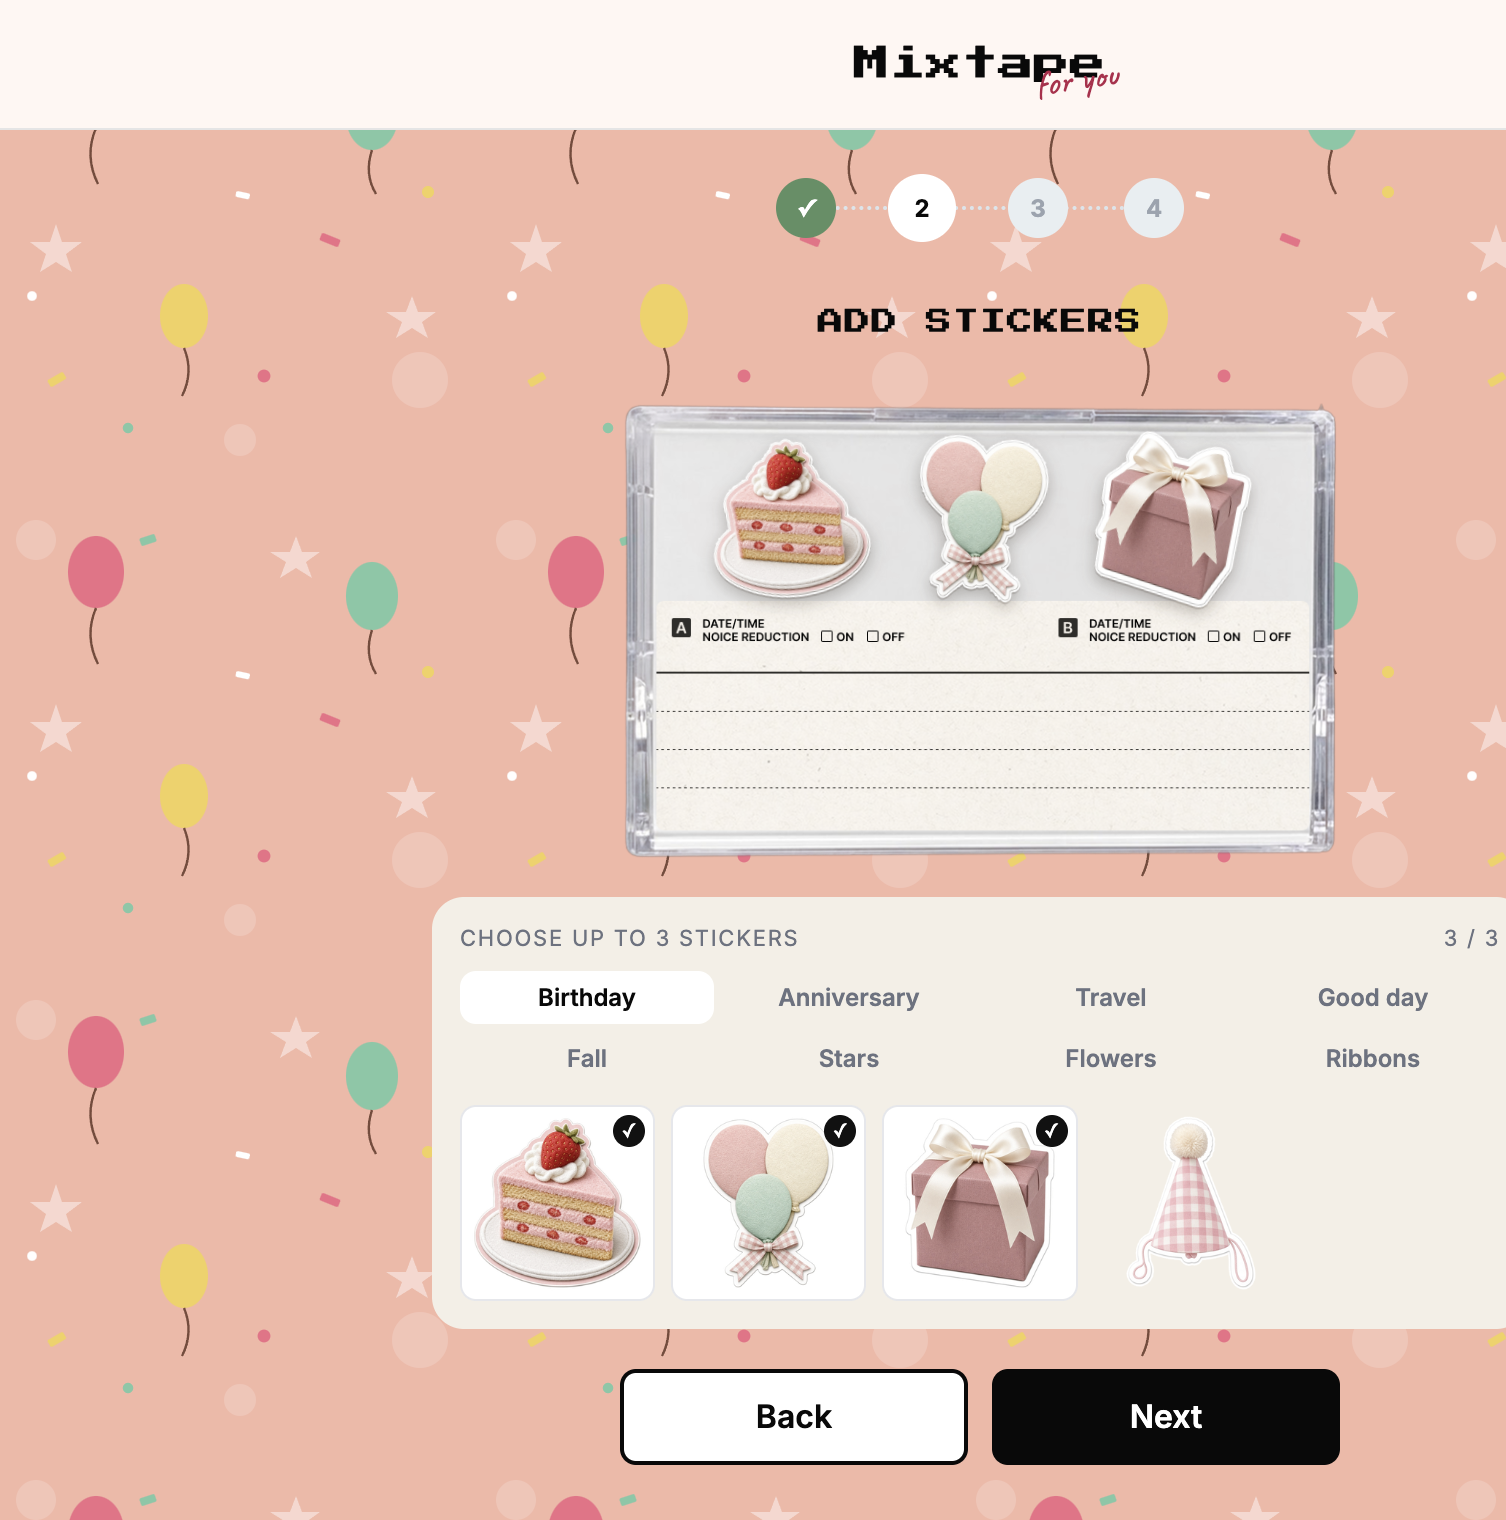
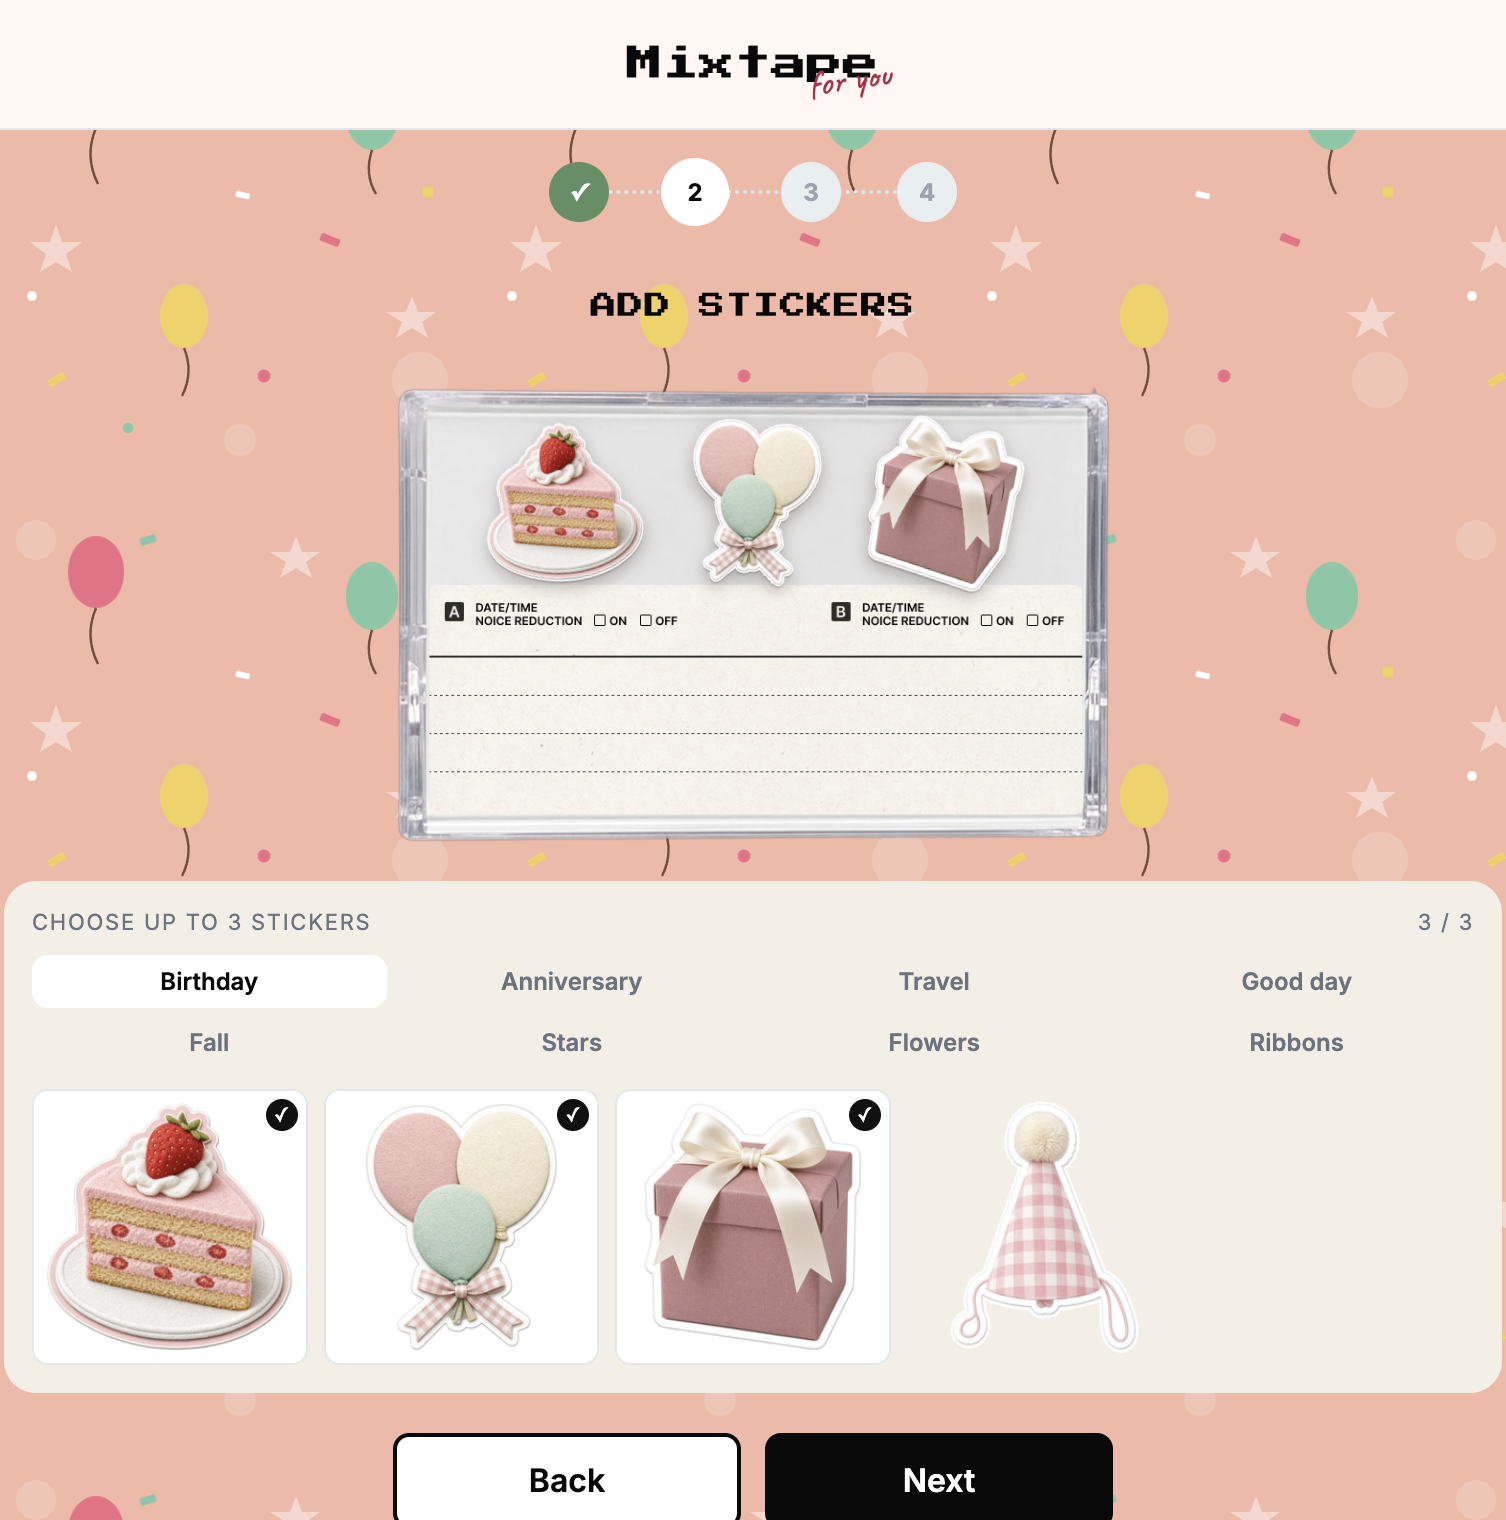
Keep long notes on a custom scrollbar and restack the README screenshots.

diff --git a/src/components/NoteCard.tsx b/src/components/NoteCard.tsx
@@ -1,3 +1,5 @@
+import { useEffect, useRef, useState, type PointerEvent } from "react";
+
 type NoteCardProps = {
   value: string;
   onChange?: (value: string) => void;
@@ -21,24 +23,98 @@ export function NoteCard({
   className = "",
   maxLength = 280,
 }: NoteCardProps) {
+  const scrollerRef = useRef<HTMLDivElement | null>(null);
+  const railRef = useRef<HTMLDivElement | null>(null);
+  const [scrollable, setScrollable] = useState(false);
+  const [thumb, setThumb] = useState({ top: 0, height: 28 });
+
+  useEffect(() => {
+    const scroller = scrollerRef.current;
+    if (!scroller) return;
+
+    function update() {
+      const node = scrollerRef.current;
+      const rail = railRef.current;
+      if (!node) return;
+      const canScroll = node.scrollHeight > node.clientHeight + 2;
+      const railHeight = rail?.clientHeight || node.clientHeight;
+      const thumbHeight = canScroll ? Math.max(22, (node.clientHeight / node.scrollHeight) * railHeight) : 28;
+      const maxTop = Math.max(0, railHeight - thumbHeight);
+      const range = node.scrollHeight - node.clientHeight;
+      const top = range > 0 ? (node.scrollTop / range) * maxTop : 0;
+      setScrollable(canScroll);
+      setThumb({ top, height: thumbHeight });
+    }
+
+    update();
+    scroller.addEventListener("scroll", update, { passive: true });
+    const observer = new ResizeObserver(update);
+    observer.observe(scroller);
+    const later = window.setTimeout(update, 750);
+    return () => {
+      scroller.removeEventListener("scroll", update);
+      observer.disconnect();
+      window.clearTimeout(later);
+    };
+  }, [value, readOnly]);
+
+  function scrollFromPointer(clientY: number) {
+    const node = scrollerRef.current;
+    const rail = railRef.current;
+    if (!node || !rail) return;
+    const rect = rail.getBoundingClientRect();
+    const range = node.scrollHeight - node.clientHeight;
+    if (range <= 0) return;
+    const y = Math.min(Math.max(0, clientY - rect.top), rect.height);
+    node.scrollTop = (y / rect.height) * range;
+  }
+
+  function onRailPointerDown(event: PointerEvent<HTMLDivElement>) {
+    event.preventDefault();
+    event.currentTarget.setPointerCapture(event.pointerId);
+    scrollFromPointer(event.clientY);
+  }
+
   return (
-    <div className={`note-card ${className}`}>
+    <div className={`note-card ${className}${scrollable ? " is-scrollable" : ""}`}>
       <img src="/assets/note-paper.png" alt="" aria-hidden="true" className="note-paper" draggable={false} />
       <div className="note-margin" />
       <div className="note-lines" />
-      {readOnly ? (
-        <p className="note-text" tabIndex={0} aria-label="Mixtape note">
-          {sentencesForDisplay(value)}
-        </p>
-      ) : (
-        <textarea
-          className="note-text note-input"
-          value={value}
-          maxLength={maxLength}
-          placeholder="Write something sweet…"
-          aria-label="Mixtape note"
-          onChange={(event) => onChange?.(event.target.value)}
-        />
+      <div className="note-scroll-clip">
+        <div ref={scrollerRef} className="note-scroll">
+          {readOnly ? (
+            <p className="note-text" tabIndex={0} aria-label="Mixtape note">
+              {sentencesForDisplay(value)}
+            </p>
+          ) : (
+            <textarea
+              className="note-text note-input"
+              value={value}
+              maxLength={maxLength}
+              placeholder="Write something sweet…"
+              aria-label="Mixtape note"
+              onChange={(event) => onChange?.(event.target.value)}
+            />
+          )}
+        </div>
+      </div>
+      {scrollable && (
+        <div
+          ref={railRef}
+          className="note-scrollbar"
+          role="scrollbar"
+          aria-label="Note scroll"
+          aria-valuemin={0}
+          aria-valuemax={100}
+          aria-valuenow={Math.round(thumb.top)}
+          aria-orientation="vertical"
+          onPointerDown={onRailPointerDown}
+          onPointerMove={(event) => {
+            if (event.currentTarget.hasPointerCapture(event.pointerId)) scrollFromPointer(event.clientY);
+          }}
+        >
+          <span className="note-scrollbar-thumb" style={{ height: thumb.height, top: thumb.top }} />
+        </div>
       )}
       {!readOnly && (
         <span className="note-count">

diff --git a/src/index.css b/src/index.css
@@ -245,12 +245,38 @@ h2 {
   display: none;
 }
 
-.note-text {
+.note-scroll-clip {
   position: absolute;
   left: 48px;
   top: 33px;
   width: calc(100% - 64px);
   height: 127px;
+  overflow: hidden;
+}
+
+.note-scroll {
+  width: calc(100% + 28px);
+  height: 100%;
+  padding-right: 28px;
+  box-sizing: border-box;
+  overflow-x: hidden;
+  overflow-y: auto;
+  overscroll-behavior: contain;
+  scrollbar-width: none;
+  -ms-overflow-style: none;
+  -webkit-overflow-scrolling: touch;
+  touch-action: pan-y;
+}
+.note-scroll::-webkit-scrollbar {
+  display: none;
+  width: 0;
+  height: 0;
+  background: transparent;
+}
+
+.note-text {
+  display: block;
+  width: 100%;
   margin: 0;
   padding: 0 8px 4px 0;
   box-sizing: border-box;
@@ -260,24 +286,42 @@ h2 {
   color: var(--hand);
   white-space: pre-wrap;
   overflow-wrap: break-word;
-  overflow-x: hidden;
-  overflow-y: auto;
-  overscroll-behavior: contain;
-  scrollbar-width: thin;
-  scrollbar-color: color-mix(in srgb, var(--hand) 32%, transparent) transparent;
+  overflow: visible;
   text-align: left;
   background-image: linear-gradient(to bottom, var(--paper-line) 0 1px, transparent 1px 21px);
   background-size: 100% 21px;
   background-attachment: local;
-  -webkit-overflow-scrolling: touch;
-  touch-action: pan-y;
 }
-.note-text::-webkit-scrollbar {
-  width: 6px;
+
+.note-scrollbar {
+  position: absolute;
+  right: 6px;
+  top: 34px;
+  z-index: 3;
+  width: 18px;
+  height: 122px;
+  padding: 0 6px;
+  box-sizing: border-box;
+  touch-action: none;
+  cursor: ns-resize;
 }
-.note-text::-webkit-scrollbar-thumb {
-  background: color-mix(in srgb, var(--hand) 32%, transparent);
+.note-scrollbar::before {
+  content: "";
+  position: absolute;
+  left: 6px;
+  top: 0;
+  width: 5px;
+  height: 100%;
   border-radius: 99px;
+  background: color-mix(in srgb, var(--hand) 22%, #fff);
+}
+.note-scrollbar-thumb {
+  position: absolute;
+  left: 6px;
+  width: 5px;
+  border-radius: 99px;
+  background: var(--hand);
+  opacity: 0.8;
 }
 
 .note-input {
@@ -285,8 +329,10 @@ h2 {
   background-color: transparent;
   resize: none;
   outline: none;
-  width: 100%;
   caret-color: var(--hand);
+  min-height: 100%;
+  overflow: hidden;
+  field-sizing: content;
 }
 
 .note-count {

diff --git a/README.md b/README.md
@@ -5,15 +5,16 @@ A cassette-style mixtape you can send to someone. Same flow as the original [Rep
 Live demo: [sherry-mixtape.netlify.app](https://sherry-mixtape.netlify.app)
 
 <p align="center">
-  <img src="docs/screenshots/home.png" alt="Home: pick a vibe, cassette, and note" width="720">
+  <img src="docs/screenshots/home.png" alt="Home: pick a vibe, cassette, and note" width="680">
 </p>
 <p align="center">
-  <img src="docs/screenshots/create.png" alt="Create: add stickers to the cassette case" width="360">
-  &nbsp;
-  <img src="docs/screenshots/listen.png" alt="Listen: opened tape with a handwritten note" width="360">
+  <img src="docs/screenshots/create.png" alt="Create: add stickers to the cassette case" width="680">
+</p>
+<p align="center">
+  <img src="docs/screenshots/listen.png" alt="Listen: opened tape with a handwritten note" width="680">
 </p>
 
-No accounts. No API keys. Anyone can fork this repo and deploy their own copy.
+Anyone can fork this repo and deploy their own copy. No accounts. No API keys.
 
 ## Run locally
 
